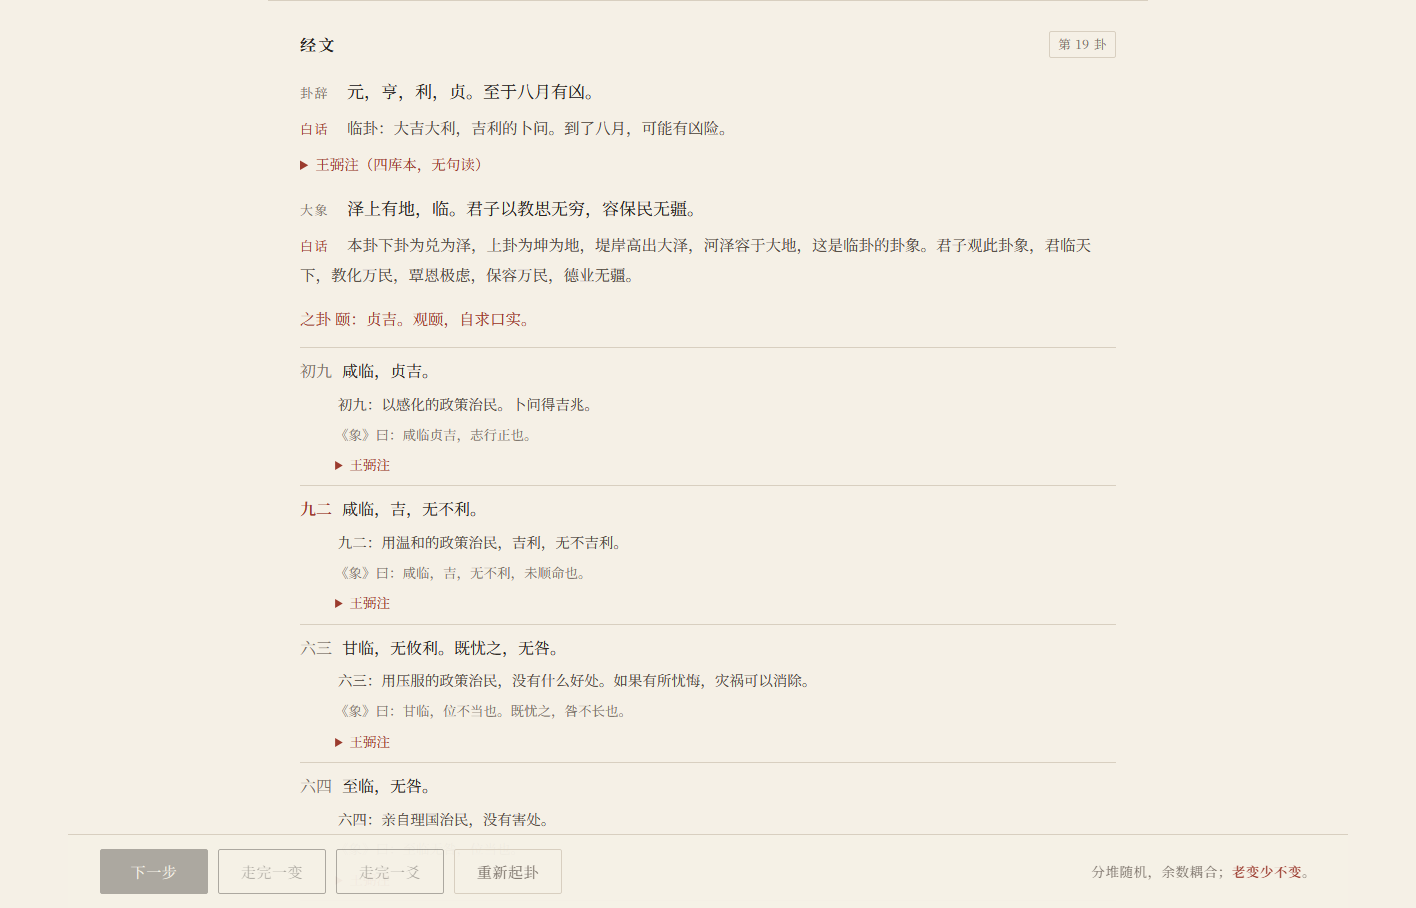
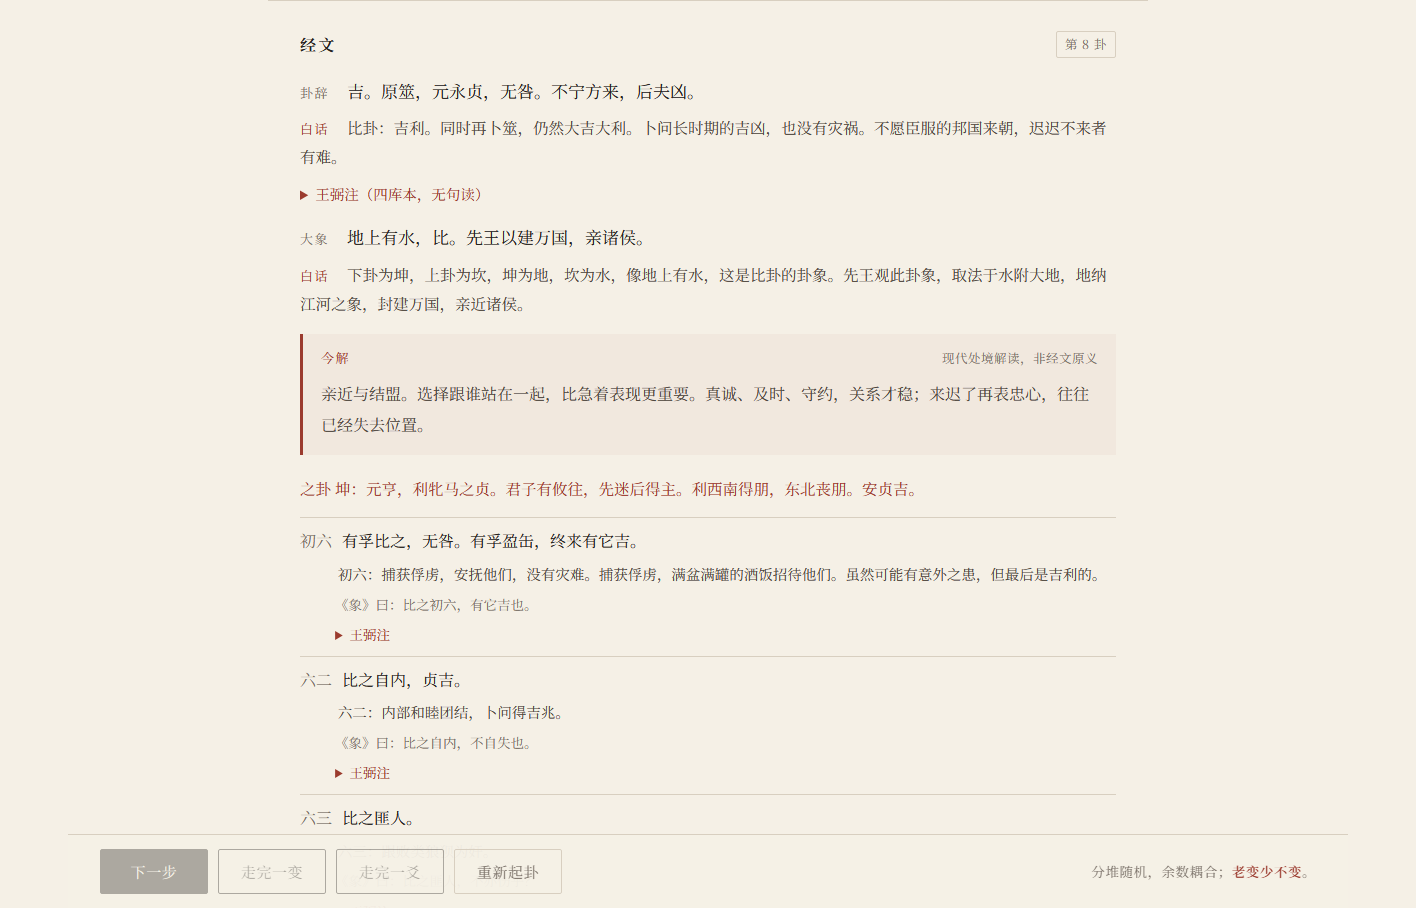
feat: add modern situational readings for all 64 hexagrams

Changed region(s): [[0.1864, 0.0925, 0.7768, 0.9251], [0.6525, 0.37, 0.7768, 0.4009], [0.7458, 0.0308, 0.7768, 0.0617]]

diff --git a/demo/modern.js b/demo/modern.js
@@ -1,0 +1,67 @@
+// 今解：项目自撰的现代处境解读，非经文原义，也不作吉凶预测。
+window.MODERN = {
+  1: "主动与节律。力量充沛时，关键不在逞强，而在看清自己所处的阶段：潜藏时积累，成长时求教，盛时留余。现代处境里，先建立可信度，再争取位置。",
+  2: "承载与配合。柔顺不是被动，而是以稳定、包容和持续执行把事情接住。适合打基础、做支撑、承接长期责任；方向可以由别人给出，落地仍要靠自己。",
+  3: "初创之难。资源少、秩序未定，先立基本盘，不要急着扩张。此时求助、结盟和明确分工，比单打独斗有效。",
+  4: "学习与启蒙。承认无知是起点，提问要具体，规则要一次讲清。反复试探、同一问题反复问，只会消耗彼此的信任。",
+  5: "等待与补给。条件未熟时的等待不是拖延，而是准备、观察和补给。守住底线，不因焦虑而冒进。",
+  6: "冲突与边界。争执多起于目标不清与位置不正。能止则止；必要时借助中立的规则和第三方，不要把胜负本身当成目的。",
+  7: "组织与纪律。集体行动靠名分、纪律和可信的带队者。出发前把规则、权责和退出机制说清，胜过事后追责。",
+  8: "亲近与结盟。选择跟谁站在一起，比急着表现更重要。真诚、及时、守约，关系才稳；来迟了再表忠心，往往已经失去位置。",
+  9: "小有积蓄。力量还不足以大举推进，先聚拢资源、修整细节。以小处的约束换取更大的回旋空间。",
+  10: "行走与分寸。面对强者或险境，礼数与边界是护身符。踩着老虎尾巴而不被咬，靠的是每一步都合度，而不是胆子大。",
+  11: "通泰与交流。上下相交通，资源才能流动。顺境中要把通道制度化，别把一时的好运当成常态。",
+  12: "闭塞与自守。上下不交时，硬推只会消耗。保存实力、守住原则，等待结构松动；不必在无效的关系里证明自己。",
+  13: "协作与共识。把私人关系扩展为公共目标，才能聚人。结盟于旷野，透明和共同的利益比私交更可靠。",
+  14: "丰盛与责任。资源集中时，关键在分配与节制。以公心使用资源，丰盛才可持续；占尽好处，往往就是转折的开始。",
+  15: "谦抑与可持续。有能力而不占尽，是长期策略。谦不是自我贬低，而是给他人留位置，也给自己留退路。",
+  16: "鼓舞与准备。情绪动员能成事，也能误事。先把节奏、资源和预案做好，再谈声势；否则热闹散得比来得快。",
+  17: "顺应与选择。跟随趋势或跟随某人，要先看方向是否正当。可以随时调整步伐，但不拿原则做交换。",
+  18: "积弊与整治。旧问题不会自行消失，先查清成因，再动手修补。整治要有人负责到底，否则只是把问题换个地方存放。",
+  19: "接近与督导。身处上位时要靠近一线，才能看见真实情况。以教化和支持代替威压，团队才愿意讲真话。",
+  20: "观察与示范。先看全局，再决定行动。居上位者的行为本身就是制度；观人，也要观自己在别人眼里是什么样子。",
+  21: "决断与执行。障碍需要明确处理，规则、证据和执行力缺一不可。宽严都要有边界，临时起意的重罚只会破坏预期。",
+  22: "修饰与本质。形式能提升秩序，但不能替代内容。装饰到恰到好处即可；返璞归真，才是修饰的终点。",
+  23: "衰退与止损。结构在剥落时，不要硬撑。减少负担、保住核心，等待新的生机；此时扩张，等于逆势加杠杆。",
+  24: "回归与重启。偏离之后及时回头，小步复原。重启不必轰轰烈烈，先恢复节律，再谈增长。",
+  25: "真实与不妄为。按事实和本分行动，不制造、不投机。意外来临时，不把一切归罪于自己，也不急着推给别人。",
+  26: "蓄积与克制。有能力也要先蓄势，把资源、知识和人才存住，等待合适的出口。过早展示，往往换来过早的消耗。",
+  27: "养育与入口。养身也养心，关键在于入口：吃什么、听什么、让谁进入你的生活。长期的状态，由日常输入决定。",
+  28: "超载与担当。结构承重过头时，必须有非常之举。敢担责任，也要及时换梁、减负；只靠意志硬撑，梁会先断。",
+  29: "险阻与重复。险境一重接一重，靠的是诚信、节奏和可重复的动作，而不是一次豪赌。把每一步做稳，才有穿过的可能。",
+  30: "依附与光明。火要依附燃料才能持续。找到可依托的结构，同时保持清醒与照见；依附不是失去判断。",
+  31: "感应与吸引。关系起于真诚的感应。少用操控，多留空间；越想抓住，越容易把对方推远。",
+  32: "持久与惯例。长期关系靠稳定的规则与日常。不是一成不变，而是变中有常；把重要的事做成可持续的习惯。",
+  33: "退避与保全。该退时退，退得干净。远离持续消耗你的局面，保留再起的资源；退不是认输，而是换一个时间尺度。",
+  34: "强盛与自律。力量增长时最容易越界。把力量用在正当处，强而不暴；能约束自己，力量才真正属于你。",
+  35: "上升与展示。被看见的阶段，要主动呈现成果，也要接受检验。上升靠顺势，更靠持续交付；只经营形象，很快会透支。",
+  36: "藏明与保护。环境不利时，收敛锋芒、保存判断力。外表可以柔顺，内里不能糊涂；等光线回来，再谈施展。",
+  37: "内部秩序。家庭与团队的日常规则，决定长期气氛。先正己，再正人；内部没有基本信任，对外再成功也不稳。",
+  38: "分歧与求同。差异不必消灭。在小事上保留各自的做法，在大方向上寻找交集；把分歧摆明，比假装一致更省成本。",
+  39: "阻滞与转向。前路难行时，先停、求助、换路。不要把坚持误当勇敢；绕行不是失败，是承认地形。",
+  40: "解除与松绑。问题缓解之后，要尽快恢复正常秩序。赦过、减负，别让旧结重新收紧；解开的绳，不要反复去打。",
+  41: "减损与聚焦。主动去掉多余的，才能补足关键的。减不是损失，是重新分配；舍不舍得，决定你能不能轻装。",
+  42: "增益与投入。把资源投到能生长的地方。利他、利远，增益才会回流；只做短期抽取，很快无物可增。",
+  43: "决裂与公开。该决断时，把问题摆到明处。先取得共识与程序正当，再行动；只凭一时痛快，决断会变成新的隐患。",
+  44: "相遇与警惕。意外的相遇带来机会，也带来渗透。小因素足以改变结构，早识别、早设限，比事后补救省力。",
+  45: "聚集与凝聚。人和资源聚拢时，需要共同目标和仪式感。聚得起来，也要能有序地散；只靠利益捆在一起，风向一变就散。",
+  46: "渐进与积累。一步一步向上，靠的是持续和柔韧。不必跳级，根基稳了自然高；急于求成，反而容易半途失速。",
+  47: "困顿与守正。资源与话语都受限时，少说多做、守住底线。困境会考验你真正相信什么；能守住，才有转机。",
+  48: "公共资源与维护。井水养人不移，但需要修井、取水、共享。长期价值在维护与开放；只取不修，再好的资源也会枯。",
+  49: "变革与时机。改革要等到信任与条件成熟。改得彻底，也要让人看见新秩序；只破不立，旧结构会以另一种形式回来。",
+  50: "更新与承载。鼎烹新物，象征结构升级。位置、材质、火候都要对，才能成器；换制度容易，换到位很难。",
+  51: "震动与警醒。突发事件打乱节奏，先稳住核心。惊惧之后要恢复秩序，而不是持续惊慌；能复盘，震才不白震。",
+  52: "止与边界。该停就停，止在合适的位置。边界清楚，行动才有力量；停不下来的人，也走不远。",
+  53: "渐进与礼仪。重要变化要按步骤推进。关系与事业都忌跳步，慢即是稳；每一步都站得住，才算真的前进。",
+  54: "位置与承诺。进入一段关系或组织，先看清名分与长期成本。不要用短期热情替代结构；位置不正，越投入越被动。",
+  55: "盛极与照见。高峰时最需要看清阴影。把资源用于公共事务，盛势才不反噬；只享受光，不处理暗处，衰退来得很快。",
+  56: "漂泊与低调。身处陌生环境，保持礼貌、轻装和警觉。不要急于扎根或树敌；旅人的安全，来自不引人注目。",
+  57: "渗透与顺入。以柔克刚，靠持续、细致的影响。反复申明规则，让改变渗入日常；一次用力过猛，反而激起抵抗。",
+  58: "喜悦与交流。愉快的沟通能聚人，但承诺要可兑现。以诚悦人，不以讨好换短期和气；说得好听，不如做得可靠。",
+  59: "涣散与凝聚。人心离散时，先疏通渠道、重建共同目标。散小利，聚大义；只靠权力把人摁在一起，散得更快。",
+  60: "节制与制度。适度的约束让系统可持续。制度要清楚，也要留出弹性；苦节不可长久，松弛无度同样不可长久。",
+  61: "诚信与共鸣。内在真实才能感通他人。承诺、证据和一致的行为，比技巧更有力；自己不信的话，说服不了任何人。",
+  62: "小处过度。大的方向不变，小的行动可以更谨慎、更谦卑。飞太高反而危险；在细节上多走一步，常比在大事上冒进稳妥。",
+  63: "完成与守成。事情已成，风险转向松懈。完成之后要维护、复盘，防止由治入乱；最难的不是做到，而是保持。",
+  64: "未完成与收尾。接近终点时最容易出错。把最后一段当作新的开始，谨慎推进；未济不是失败，而是仍在路上。"
+};

diff --git a/demo/app.js b/demo/app.js
@@ -18,6 +18,7 @@
     textBlock: $('textBlock'), textName: $('textName'), textGuaci: $('textGuaci'),
     textBaihua: $('textBaihua'), textZhu: $('textZhu'), textZhuBody: $('textZhuBody'),
     textXiang: $('textXiang'), textXiangBaihua: $('textXiangBaihua'), textZhi: $('textZhi'),
+    textModern: $('textModern'), textModernBody: $('textModernBody'),
     textLines: $('textLines'), textTuan: $('textTuan'),
     log: $('log'), stepCount: $('stepCount'),
     btnStep: $('btnStep'), btnChange: $('btnChange'),
@@ -152,6 +153,13 @@
     }
     el.textXiang.textContent = data.daxiang;
     el.textXiangBaihua.textContent = data.daxiangBaihua || '';
+    var modern = window.MODERN && window.MODERN[ben.id];
+    if (modern) {
+      el.textModern.hidden = false;
+      el.textModernBody.textContent = modern;
+    } else {
+      el.textModern.hidden = true;
+    }
     el.textTuan.textContent = data.tuan;
 
     if (zhi) {

diff --git a/demo/index.html b/demo/index.html
@@ -91,6 +91,10 @@
   </details>
   <p class="canon"><span class="lab">大象</span><span id="textXiang"></span></p>
   <p class="baihua"><span class="lab">白话</span><span id="textXiangBaihua"></span></p>
+  <section class="modern" id="textModern" hidden>
+    <div class="modern-head"><span class="lab">今解</span><span class="modern-note">现代处境解读，非经文原义</span></div>
+    <p id="textModernBody"></p>
+  </section>
   <p class="canon zhi" id="textZhi" hidden></p>
   <ol class="line-list" id="textLines"></ol>
   <details class="tuan">
@@ -160,6 +164,7 @@
 
 <script src="core.js"></script>
 <script src="hextext.js"></script>
+<script src="modern.js"></script>
 <script src="stars.js"></script>
 <script src="app.js"></script>
 </body>

diff --git a/demo/style.css b/demo/style.css
@@ -611,6 +611,39 @@ h2 {
   color: var(--accent);
 }
 
+.modern {
+  margin: 16px 0 18px;
+  padding: 13px 18px 15px;
+  background: rgba(155, 59, 46, .045);
+  border-left: 3px solid var(--accent);
+}
+
+.modern-head {
+  display: flex;
+  align-items: baseline;
+  justify-content: space-between;
+  gap: 12px;
+}
+
+.modern .lab {
+  color: var(--accent);
+  min-width: 0;
+  margin-right: 0;
+}
+
+.modern-note {
+  font-size: 12.5px;
+  color: var(--muted);
+  letter-spacing: .04em;
+}
+
+.modern p {
+  margin: 8px 0 0;
+  font-size: 16px;
+  line-height: 1.95;
+  color: var(--prose);
+}
+
 .wangbi-gua {
   margin: -4px 0 14px;
   font-size: 14.5px;

diff --git a/README.md b/README.md
@@ -10,7 +10,7 @@
 
 - **筮仪台**：分二、挂一、揲四、归奇逐步执行。每一步给出动作、数的变化、象征与校验；一变后余策必为 44 或 40，二变后 40 / 36 / 32，三变后 36 / 32 / 28 / 24。
 - **成卦**：六爻自下而上，老变少不变，本卦与之卦并列；114 步完整回放。
-- **经文**：通行本卦辞、大象、爻辞、小象，附现代白话、王弼注（四库本，可展开）与术语注。
+- **经文**：通行本卦辞、大象、爻辞、小象，附现代白话、王弼注（四库本，可展开）、今解与术语注。今解按现代处境重述卦义，不作吉凶预测。
 - **星阵**：二十八宿、二十四气、六十卦气三环同轴；拖动节气环可做拟合实验，实时显示 RMS 与等宽基线。
 
 ![星阵](demo/shot-stars.png)
@@ -27,6 +27,7 @@ demo/
   stars.js        星阵图
   app.js          界面与交互
   hextext.js      六十四卦经文、白话、王弼注
+  modern.js       六十四卦今解
   shot.mjs        CDP 截图脚本（开发用）
 research/
   前期调研.md      史源、概率、卦气、宿度与设计取舍
@@ -39,6 +40,7 @@ research/
 - **经文**：通行本。异文与旧注未校。
 - **白话**：取自 [chengjun/iching](https://github.com/chengjun/iching)（MIT），只取「白话文解释」，现代命理评断未收。白话为现代译文，不是经文原义。
 - **王弼注**：四库本，公有领域。原本无句读，音义未收，异体字转简；只能作参考层，不宜当标准读本。
+- **今解**：本项目自撰。按现代处境重述卦义，不是经文原义，也不作吉凶预测；用于理解，不代替原典。
 - **二十八宿**：汉制距度（斗宿含 26¼），合计 365.25 古度。
 - **揲蓍概率**：分堆均匀时，老阳 / 老阴 / 少阳 / 少阴约为 21.1% / 5.2% / 28.9% / 44.8%；挂扐理想值为 18.75 / 6.25 / 31.25 / 43.75。两者差异来自分堆边界，页面底部有说明。
 - **星阵拟合**：最优 φ=76.5 时 RMS 4.74 古度，等宽基线 3.77。最优旋转仍差于等宽基线，说明二者没有隐藏对齐；共享的 365.25 才是可验证的部分。
